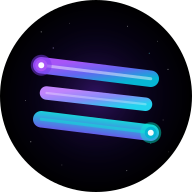
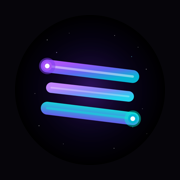
Installable mobile app (PWA) with a phone tab bar
- app/manifest.ts: standalone, SIGMORA icons incl. maskable, shortcuts to
  the India/US scanners and the journal
- public/sw.js: caches only an offline page; prices, setups, journal and
  portfolio always come live from the network, never stale
- Install button: real prompt on Android/desktop Chrome, Add-to-Home-Screen
  steps on iPhone; hidden once installed
- Phones: bottom tab bar with icons, safe-area insets, 44px targets,
  16px inputs (no iOS zoom). Header blur is desktop-only because
  backdrop-filter made the header the containing block for the fixed bar.
- iPhone: apple-touch icon on the app background, standalone status bar

Chrome reports no installability errors; the service worker registers.

Claude-Session: https://claude.ai/code/session_01YSqGuAGuCF6aXvH3J9Mbxh

diff --git a/app/globals.css b/app/globals.css
@@ -39,7 +39,13 @@ button, input, select, textarea { font: inherit; color: inherit; }
   position: sticky; top: 0; z-index: 10;
   display: flex; align-items: center; gap: 20px;
   padding: 12px 24px; border-bottom: 1px solid var(--line-soft);
-  background: rgba(7, 7, 13, 0.9); backdrop-filter: blur(10px);
+  background: rgba(7, 7, 13, 0.97);
+}
+/* Blur only on wide screens. On phones the nav inside .top is a fixed bottom tab
+   bar, and backdrop-filter would make .top its containing block, pinning the bar
+   to the header instead of the screen. */
+@media (min-width: 901px) {
+  .top { background: rgba(7, 7, 13, 0.88); backdrop-filter: blur(10px); -webkit-backdrop-filter: blur(10px); }
 }
 .brand { font-weight: 700; letter-spacing: 0.04em; display: flex; align-items: center; gap: 9px; white-space: nowrap; }
 .brand img { border-radius: 8px; display: block; }
@@ -50,7 +56,8 @@ button, input, select, textarea { font: inherit; color: inherit; }
   -webkit-background-clip: text; background-clip: text; color: transparent;
 }
 .nav { display: flex; gap: 4px; flex-wrap: wrap; }
-.nav a { padding: 7px 12px; border-radius: 8px; color: var(--ink-2); }
+.nav a { padding: 7px 12px; border-radius: 8px; color: var(--ink-2); display: inline-flex; align-items: center; gap: 7px; }
+.nav svg { width: 17px; height: 17px; flex: none; }
 .nav a:hover { background: rgba(255, 255, 255, 0.04); color: var(--ink); }
 .nav a.on { background: var(--violet-bg); color: var(--ink); }
 .top .sp { margin-left: auto; }
@@ -147,8 +154,31 @@ textarea { min-height: 70px; resize: vertical; }
 .note.good { border-color: #1e4a2e; background: var(--up-bg); color: #86efac; }
 .chart { height: 380px; width: 100%; }
 
+/* install prompt for iPhone */
+.ios-hint { position: fixed; inset: 0; z-index: 50; background: rgba(0,0,0,.6); display: grid; place-items: end center; padding: 16px; padding-bottom: calc(16px + env(safe-area-inset-bottom)); }
+.ios-hint .card { max-width: 420px; width: 100%; }
+.install { border-color: var(--violet-line); color: var(--accent); }
+
 @media (max-width: 900px) {
   .brand em { display: none; }
+  /* phones: the nav becomes a fixed bottom tab bar, like a native app */
+  .top { padding-top: calc(10px + env(safe-area-inset-top)); background: #06060b; }
+  .nav {
+    position: fixed; left: 0; right: 0; bottom: 0; z-index: 20;
+    display: grid; grid-template-columns: repeat(5, 1fr); gap: 0;
+    background: rgba(10, 10, 17, 0.97); border-top: 1px solid var(--line);
+    backdrop-filter: blur(12px); -webkit-backdrop-filter: blur(12px);
+    padding: 6px 4px calc(6px + env(safe-area-inset-bottom));
+  }
+  .nav a { flex-direction: column; gap: 3px; padding: 6px 2px; font-size: 11px; border-radius: 10px; justify-content: center; min-height: 48px; }
+  .nav svg { width: 22px; height: 22px; }
+  .nav a.on { background: transparent; color: var(--accent); }
+  .wrap.with-tabs { padding-bottom: calc(96px + env(safe-area-inset-bottom)); }
+  h1 { font-size: 24px; }
+  .btn { min-height: 44px; }
+  input, select, textarea { font-size: 16px; } /* stops iPhone zooming into fields */
+  .yn { grid-template-columns: 1fr; }
+  .chart { height: 300px; }
   .g2, .g3, .g4 { grid-template-columns: 1fr; }
   .wrap { padding: 16px; }
   .top { padding: 10px 16px; gap: 10px; }

diff --git a/components/InstallApp.tsx b/components/InstallApp.tsx
@@ -1,0 +1,72 @@
+"use client";
+
+// Registers the service worker and offers "Install app".
+// Android / desktop Chrome: a real install button (beforeinstallprompt).
+// iPhone: Safari has no install button for web apps, so we show the two taps.
+
+import { useEffect, useState } from "react";
+
+type BIPEvent = Event & { prompt: () => Promise<void>; userChoice: Promise<{ outcome: string }> };
+
+export default function InstallApp() {
+  const [evt, setEvt] = useState<BIPEvent | null>(null);
+  const [ios, setIos] = useState(false);
+  const [installed, setInstalled] = useState(true);
+  const [showIos, setShowIos] = useState(false);
+
+  useEffect(() => {
+    if ("serviceWorker" in navigator) navigator.serviceWorker.register("/sw.js").catch(() => {});
+    const standalone =
+      window.matchMedia("(display-mode: standalone)").matches ||
+      (navigator as Navigator & { standalone?: boolean }).standalone === true;
+    setInstalled(standalone);
+    setIos(/iphone|ipad|ipod/i.test(navigator.userAgent));
+    const onPrompt = (e: Event) => {
+      e.preventDefault();
+      setEvt(e as BIPEvent);
+    };
+    const onInstalled = () => setInstalled(true);
+    window.addEventListener("beforeinstallprompt", onPrompt);
+    window.addEventListener("appinstalled", onInstalled);
+    return () => {
+      window.removeEventListener("beforeinstallprompt", onPrompt);
+      window.removeEventListener("appinstalled", onInstalled);
+    };
+  }, []);
+
+  if (installed || (!evt && !ios)) return null;
+
+  if (evt) {
+    return (
+      <button
+        className="btn small install"
+        onClick={async () => {
+          await evt.prompt();
+          await evt.userChoice;
+          setEvt(null);
+        }}
+      >
+        ⬇ Install app
+      </button>
+    );
+  }
+
+  return (
+    <>
+      <button className="btn small install" onClick={() => setShowIos(!showIos)}>⬇ Install app</button>
+      {showIos && (
+        <div className="ios-hint" role="dialog" aria-label="Install on iPhone" onClick={() => setShowIos(false)}>
+          <div className="card stack" onClick={(e) => e.stopPropagation()}>
+            <b>Install on iPhone</b>
+            <ol style={{ paddingLeft: 18, color: "var(--ink-2)" }}>
+              <li>Open this page in <b>Safari</b>.</li>
+              <li>Tap the <b>Share</b> button (square with an arrow).</li>
+              <li>Tap <b>Add to Home Screen</b>, then <b>Add</b>.</li>
+            </ol>
+            <button className="btn" onClick={() => setShowIos(false)}>Got it</button>
+          </div>
+        </div>
+      )}
+    </>
+  );
+}

diff --git a/components/Nav.tsx b/components/Nav.tsx
@@ -2,23 +2,35 @@
 import Link from "next/link";
 import { usePathname } from "next/navigation";
 
+// Top links on desktop; a bottom tab bar on phones (see .nav in globals.css).
+const I = {
+  today: <path d="M3 12l9-8 9 8M5 10v10h14V10" />,
+  scan: <><circle cx="11" cy="11" r="7" /><path d="M20 20l-3.5-3.5" /></>,
+  journal: <><path d="M6 3h11a2 2 0 0 1 2 2v16l-4-2-4 2-4-2-3 1.5V5a2 2 0 0 1 2-2z" /><path d="M9 8h6M9 12h6" /></>,
+  portfolio: <><rect x="3" y="7" width="18" height="13" rx="2" /><path d="M8 7V5a2 2 0 0 1 2-2h4a2 2 0 0 1 2 2v2" /></>,
+  rules: <><path d="M12 3l8 4v5c0 5-3.5 8-8 9-4.5-1-8-4-8-9V7z" /><path d="M9 12l2 2 4-4" /></>,
+};
+
 const LINKS = [
-  ["/", "Today"],
-  ["/scan", "Scanner"],
-  ["/journal", "Journal"],
-  ["/portfolio", "Portfolio"],
-  ["/settings", "Rules"],
+  ["/", "Today", I.today],
+  ["/scan", "Scanner", I.scan],
+  ["/journal", "Journal", I.journal],
+  ["/portfolio", "Portfolio", I.portfolio],
+  ["/settings", "Rules", I.rules],
 ] as const;
 
 export default function Nav() {
   const path = usePathname();
   return (
-    <nav className="nav">
-      {LINKS.map(([href, label]) => {
+    <nav className="nav" aria-label="Main">
+      {LINKS.map(([href, label, icon]) => {
         const on = href === "/" ? path === "/" : path.startsWith(href) || (href === "/scan" && path.startsWith("/stock"));
         return (
-          <Link key={href} href={href} className={on ? "on" : undefined}>
-            {label}
+          <Link key={href} href={href} className={on ? "on" : undefined} aria-current={on ? "page" : undefined}>
+            <svg viewBox="0 0 24 24" fill="none" stroke="currentColor" strokeWidth="1.8" strokeLinecap="round" strokeLinejoin="round" aria-hidden="true">
+              {icon}
+            </svg>
+            <span>{label}</span>
           </Link>
         );
       })}

diff --git a/app/layout.tsx b/app/layout.tsx
@@ -3,14 +3,22 @@ import "./globals.css";
 import Nav from "@/components/Nav";
 import { currentUser } from "@/lib/data";
 import { signOut } from "./actions";
+import InstallApp from "@/components/InstallApp";
 
 export const metadata: Metadata = {
   title: "SIGMORA Swing Desk",
   description: "Private setup scanner and discipline gate for India and US swing trades.",
   robots: { index: false, follow: false },
+  appleWebApp: { capable: true, title: "Swing Desk", statusBarStyle: "black-translucent" },
+  formatDetection: { telephone: false },
 };
 
-export const viewport: Viewport = { themeColor: "#07070d", width: "device-width", initialScale: 1 };
+export const viewport: Viewport = {
+  themeColor: "#06060b",
+  width: "device-width",
+  initialScale: 1,
+  viewportFit: "cover",
+};
 
 export default async function RootLayout({ children }: { children: React.ReactNode }) {
   let signedIn = false;
@@ -38,12 +46,15 @@ export default async function RootLayout({ children }: { children: React.ReactNo
               <em>Swing Desk</em>
             </a>
             <Nav />
-            <form action={signOut} className="sp">
-              <button className="btn small" type="submit">Sign out</button>
-            </form>
+            <div className="sp row">
+              <InstallApp />
+              <form action={signOut}>
+                <button className="btn small" type="submit">Sign out</button>
+              </form>
+            </div>
           </header>
         )}
-        <main className="wrap">{children}</main>
+        <main className={`wrap ${signedIn ? "with-tabs" : ""}`}>{children}</main>
       </body>
     </html>
   );

diff --git a/app/manifest.ts b/app/manifest.ts
@@ -1,0 +1,30 @@
+import type { MetadataRoute } from "next";
+
+// Makes the app installable: "Add to Home Screen" on iPhone, "Install app" on
+// Android and desktop Chrome. Opens full-screen with no browser bar.
+export default function manifest(): MetadataRoute.Manifest {
+  return {
+    id: "/",
+    name: "SIGMORA Swing Desk",
+    short_name: "Swing Desk",
+    description: "Live setup scanner and discipline gate for India and US swing trades.",
+    start_url: "/",
+    scope: "/",
+    display: "standalone",
+    orientation: "portrait",
+    background_color: "#06060b",
+    theme_color: "#06060b",
+    categories: ["finance", "productivity"],
+    icons: [
+      { src: "/icon-192.png", sizes: "192x192", type: "image/png", purpose: "any" },
+      { src: "/icon-512.png", sizes: "512x512", type: "image/png", purpose: "any" },
+      { src: "/icon-maskable-192.png", sizes: "192x192", type: "image/png", purpose: "maskable" },
+      { src: "/icon-maskable-512.png", sizes: "512x512", type: "image/png", purpose: "maskable" },
+    ],
+    shortcuts: [
+      { name: "India scanner", url: "/scan?m=IN" },
+      { name: "US scanner", url: "/scan?m=US" },
+      { name: "Journal", url: "/journal" },
+    ],
+  };
+}

diff --git a/public/sw.js b/public/sw.js
@@ -1,0 +1,25 @@
+// Service worker for the installed app.
+//
+// Deliberately caches NOTHING that holds data: prices, setups, your journal and
+// portfolio always come live from the network, so an installed app can never
+// show you a stale setup as if it were today's. The only thing kept offline is
+// a small page that says you are offline.
+
+const OFFLINE = "/offline.html";
+const CACHE = "swing-desk-shell-v1";
+
+self.addEventListener("install", (e) => {
+  e.waitUntil(caches.open(CACHE).then((c) => c.addAll([OFFLINE, "/icon-192.png"])));
+  self.skipWaiting();
+});
+
+self.addEventListener("activate", (e) => {
+  e.waitUntil(
+    caches.keys().then((keys) => Promise.all(keys.filter((k) => k !== CACHE).map((k) => caches.delete(k)))).then(() => self.clients.claim()),
+  );
+});
+
+self.addEventListener("fetch", (e) => {
+  if (e.request.mode !== "navigate") return; // let the browser handle everything else normally
+  e.respondWith(fetch(e.request).catch(() => caches.match(OFFLINE)));
+});

diff --git a/public/offline.html b/public/offline.html
@@ -1,0 +1,23 @@
+<!doctype html>
+<html lang="en">
+<head>
+<meta charset="utf-8">
+<meta name="viewport" content="width=device-width, initial-scale=1">
+<meta name="theme-color" content="#06060b">
+<title>Offline · SIGMORA Swing Desk</title>
+<style>
+  body{margin:0;min-height:100vh;display:grid;place-items:center;background:#06060b;color:#f2f2f8;font-family:system-ui,sans-serif;text-align:center;padding:24px}
+  img{width:64px;height:64px;border-radius:16px;margin-bottom:18px}
+  p{color:#a6a6c0;max-width:34ch;line-height:1.5}
+  button{margin-top:14px;padding:12px 20px;border-radius:10px;border:0;background:#7c3aed;color:#fff;font-weight:600;font-size:15px}
+</style>
+</head>
+<body>
+  <div>
+    <img src="/icon-192.png" alt="">
+    <h1>You're offline</h1>
+    <p>Swing Desk only shows live prices, so there is nothing safe to show without a connection. No stale setups.</p>
+    <button onclick="location.reload()">Try again</button>
+  </div>
+</body>
+</html>

diff --git a/app/login/page.tsx b/app/login/page.tsx
@@ -1,4 +1,5 @@
 import LoginForm from "./LoginForm";
+import InstallApp from "@/components/InstallApp";
 
 export default function LoginPage() {
   return (
@@ -11,6 +12,7 @@ export default function LoginPage() {
       <h1>Sign in</h1>
       <p className="sub">Private. Only the owner&apos;s email can get in.</p>
       <LoginForm />
+      <div style={{ marginTop: 14, textAlign: "center" }}><InstallApp /></div>
     </div>
   );
 }

diff --git a/proxy.ts b/proxy.ts
@@ -45,5 +45,5 @@ export async function proxy(req: NextRequest) {
 }
 
 export const config = {
-  matcher: ["/((?!_next/static|_next/image|favicon.ico|robots.txt|.*\\.(?:png|svg|ico)$).*)"],
+  matcher: ["/((?!_next/static|_next/image|favicon.ico|robots.txt|sw.js|offline.html|manifest.webmanifest|.*\\.(?:png|svg|ico)$).*)"],
 };
